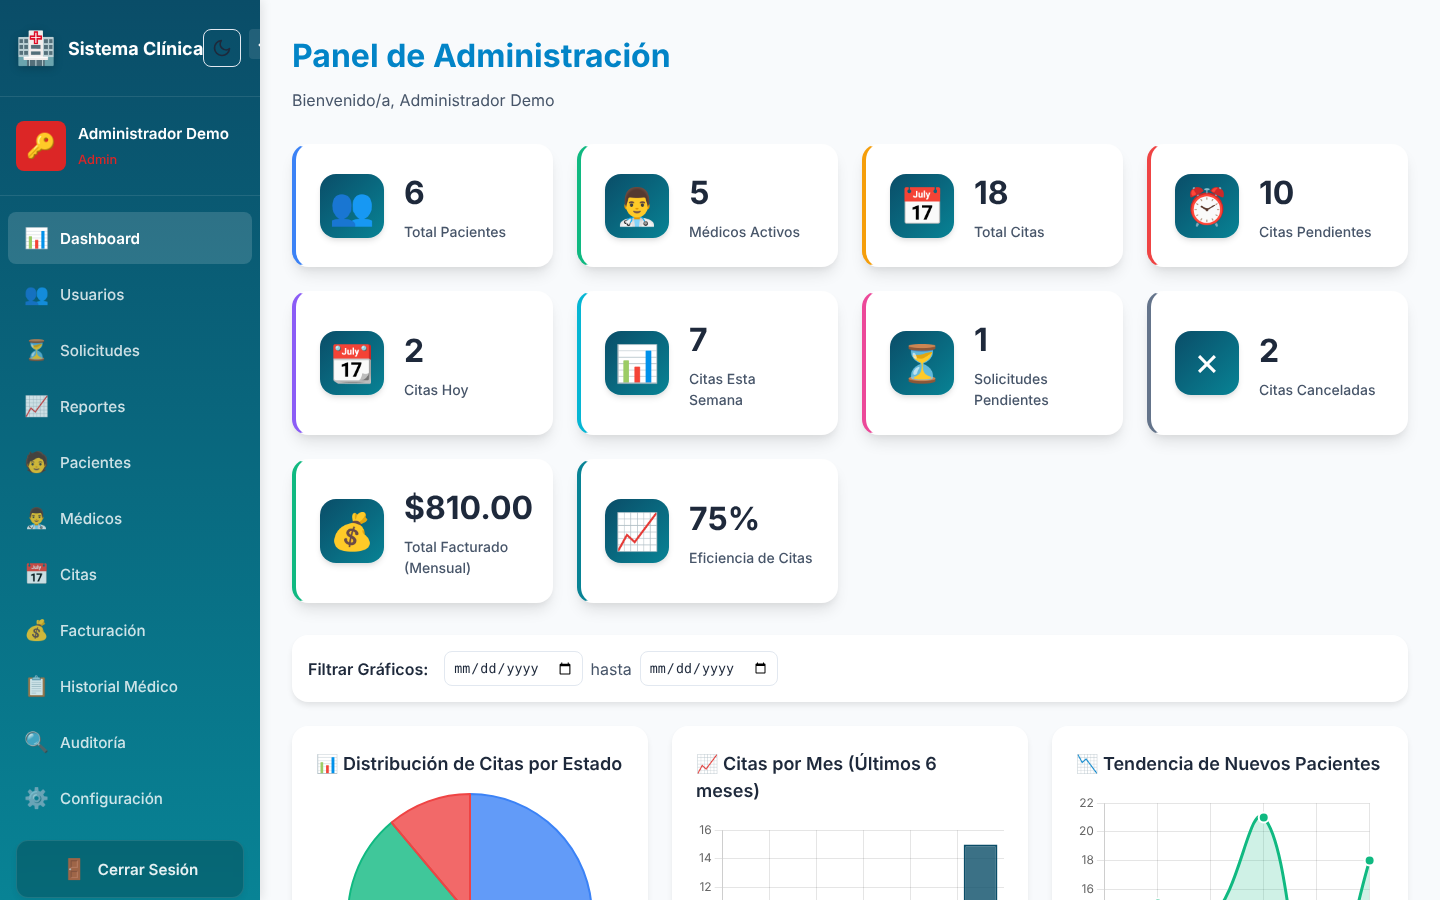
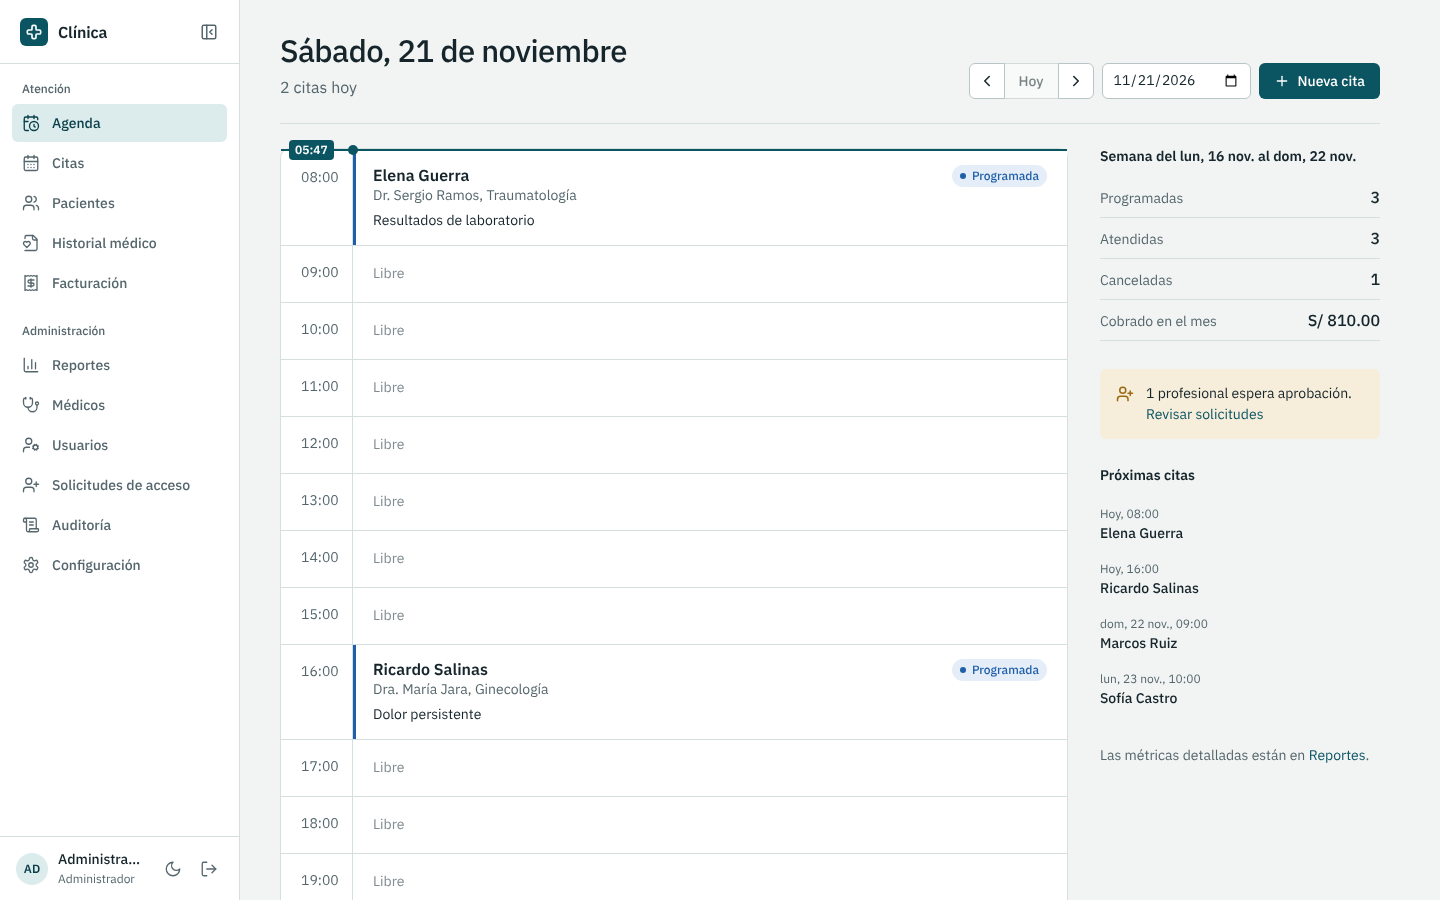
docs: capturas y README con el nuevo diseño
Claude-Session: https://claude.ai/code/session_01NFQQwhziExpGnaRbogcbpr

diff --git a/README.md b/README.md
@@ -19,7 +19,7 @@ Aplicación **full stack** para administrar una clínica: pacientes, médicos, c
 
 > Los datos de la demo son ficticios. Si los modificas, otros visitantes verán tus cambios.
 
-![Dashboard](docs/screenshots/dashboard.png)
+![Agenda del día](docs/screenshots/dashboard.png)
 
 <details>
 <summary>Más capturas</summary>
@@ -27,8 +27,8 @@ Aplicación **full stack** para administrar una clínica: pacientes, médicos, c
 | Citas | Reportes |
 |---|---|
 | ![Citas](docs/screenshots/citas.png) | ![Reportes](docs/screenshots/reportes.png) |
-| **Pacientes** | **Login** |
-| ![Pacientes](docs/screenshots/pacientes.png) | ![Login](docs/screenshots/login.png) |
+| **Agenda en modo oscuro** | **Login** |
+| ![Agenda en modo oscuro](docs/screenshots/dashboard-dark.png) | ![Login](docs/screenshots/login.png) |
 
 </details>
 
@@ -36,6 +36,7 @@ Aplicación **full stack** para administrar una clínica: pacientes, médicos, c
 
 ## Funcionalidades
 
+- **Agenda del día** como pantalla de inicio: línea de tiempo por hora con la marca de "ahora", navegación entre días y huecos libres que abren "Nueva cita" con la hora sugerida.
 - **Autenticación JWT** con registro de profesionales sujeto a **aprobación del administrador**.
 - **4 roles** (administrador, médico, recepcionista, paciente) con permisos verificados en el backend y en la UI. Un médico sólo ve y modifica sus propias citas.
 - **CRUD** de pacientes, médicos, citas, historial médico, facturas y usuarios.
@@ -44,13 +45,13 @@ Aplicación **full stack** para administrar una clínica: pacientes, médicos, c
 - **Exportación a Excel y PDF**.
 - **Auditoría**: registro de quién hizo qué y cuándo.
 - Email de confirmación de citas y recuperación de contraseña.
-- Modo oscuro.
+- Modo claro y oscuro, diseño responsive y accesible (etiquetas en todos los campos, foco visible, navegación con teclado).
 
 ## Stack
 
 | Capa | Tecnologías |
 |---|---|
-| Frontend | React 19, Vite, React Router 7, React Hook Form + Zod, Axios, Chart.js |
+| Frontend | React 19, Vite, React Router 7, React Hook Form + Zod, Axios, Chart.js, lucide-react, IBM Plex Sans |
 | Backend | Node.js 22, Express 5, Sequelize 6, JWT, bcrypt, Helmet, express-rate-limit, Swagger |
 | Base de datos | PostgreSQL 16 |
 | Calidad | Jest + Supertest, ESLint, GitHub Actions |
@@ -89,6 +90,7 @@ clinica-backend/
 - **Errores tipados (`ApiError`)**: los servicios lanzan errores con su código HTTP (400/404/409) y un único middleware arma la respuesta. En producción nunca se exponen stacks ni mensajes internos.
 - **Configuración fail-fast**: en producción la app no arranca si falta `JWT_SECRET`; no hay secretos por defecto.
 - **Seguridad**: whitelist de campos en el registro (evita *mass assignment*), contraseñas y tokens de recuperación hasheados, el hash nunca se serializa en las respuestas, respuestas que no permiten enumerar usuarios, HTML escapado en emails, Helmet y rate limiting.
+- **Sistema de diseño propio** ([docs/DESIGN.md](docs/DESIGN.md)): tokens de color y tipografía en CSS, clases compartidas en lugar de estilos inline y una identidad basada en el uso real (la agenda), no en una plantilla de tarjetas. Se trabajó con la skill [`frontend-design`](.claude/skills/frontend-design) de Anthropic, incluida en el repositorio.
 - **Rendimiento del frontend**: *code splitting* por ruta y carga diferida de las librerías de exportación. El bundle inicial pasó de 1,4 MB a 242 kB (79 kB gzip).
 
 ## Ejecutar en local
